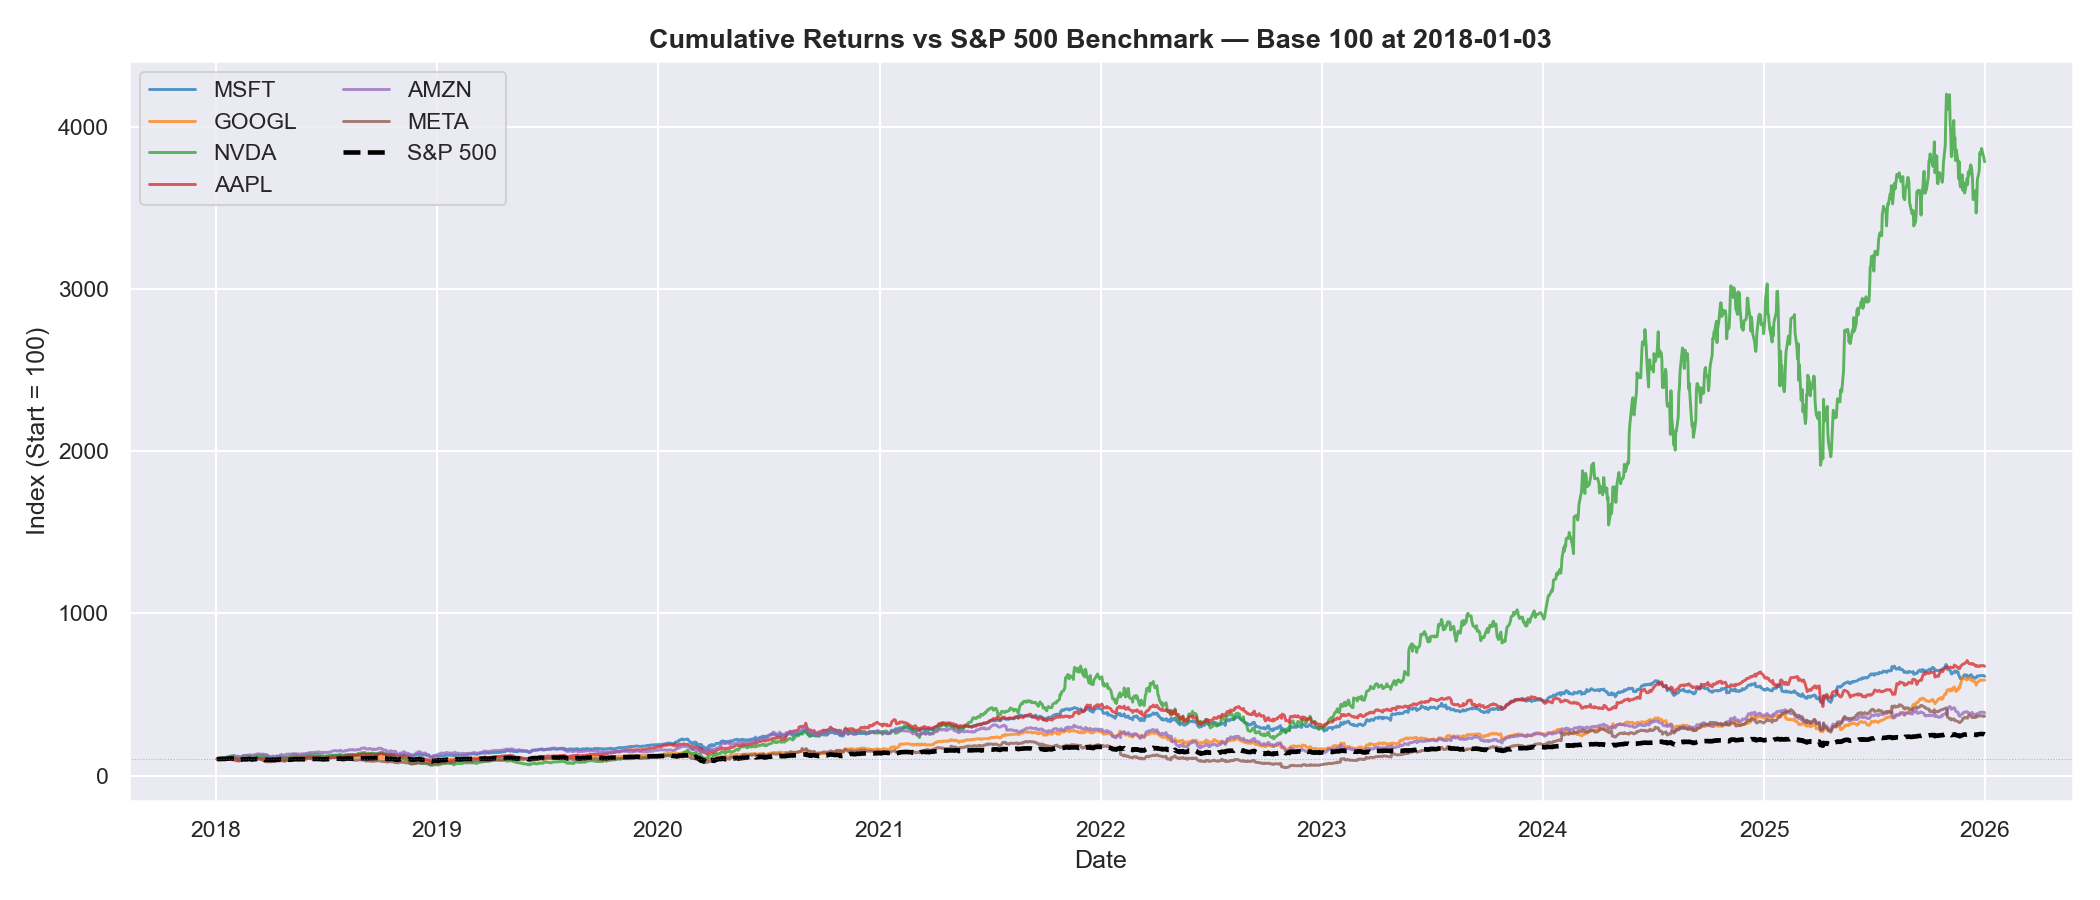
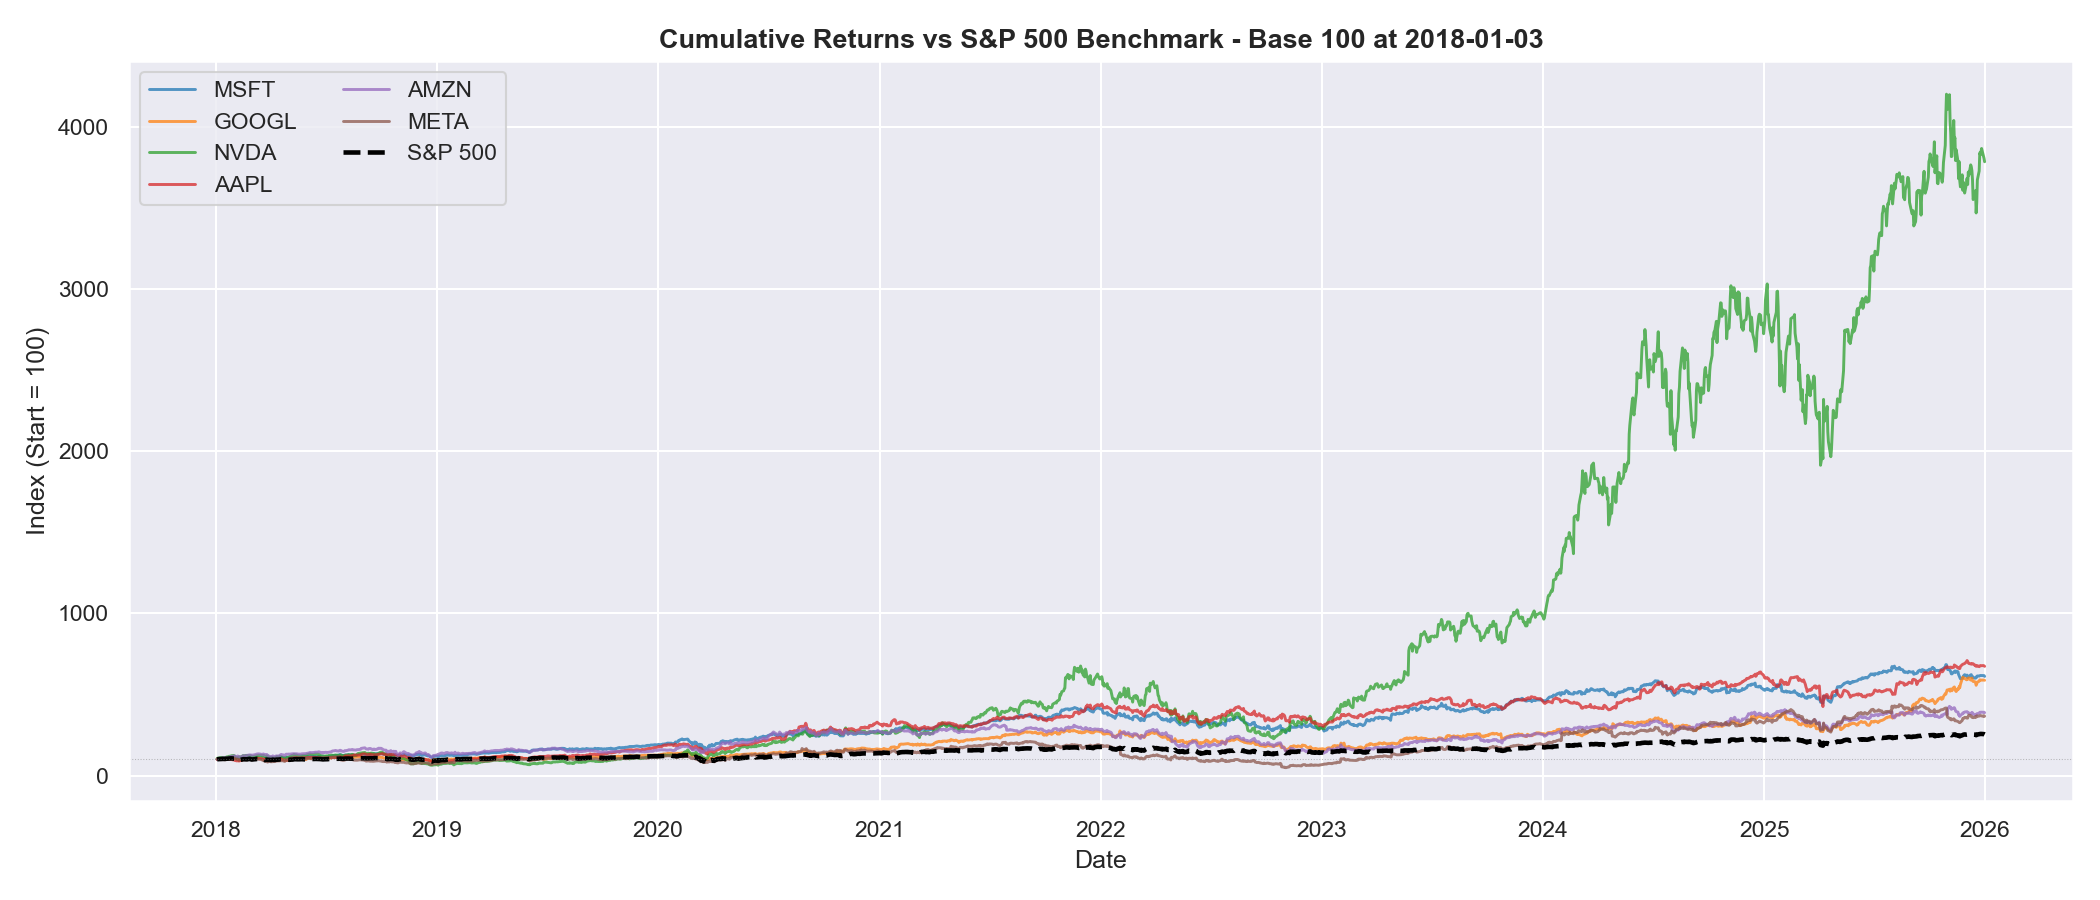
Fix Phase 2 encoding and EDA conclusion; harden CSV upload path
- Strip UTF-8 BOM and four mojibake em dashes from phase2_eda.py
- Compute EDA conclusion figures from live frames instead of hardcoding
- Drop non-finite rows after log transform so bad uploads return 422
- Sort uploaded CSVs by date
- Remove unused imports and locals
- README: test count, chart count, walk-forward years, missing entries

Changed region(s): [[0.3095, 0.0311, 0.7429, 0.0622]]

diff --git a/src/phase2_eda.py b/src/phase2_eda.py
@@ -1,6 +1,6 @@
-"""
+"""
 Phase 2 -- Exploratory Data Analysis
-Loads master_data.csv and produces 8 analyses/charts saved to outputs/.
+Loads master_data.csv and produces 11 charts and 4 tables saved to outputs/.
 """
 
 import sys
@@ -354,7 +354,7 @@ for ticker in ALL_TICKERS:
 ax.plot(sp500_cum.index, sp500_cum.values, label="S&P 500",
         color="black", lw=2.2, ls="--")
 ax.axhline(100, color="grey", lw=0.5, ls=":", alpha=0.5)
-ax.set_title("Cumulative Returns vs S&P 500 Benchmark â€” Base 100 at 2018-01-03",
+ax.set_title("Cumulative Returns vs S&P 500 Benchmark - Base 100 at 2018-01-03",
              fontsize=13, fontweight="bold")
 ax.set_ylabel("Index (Start = 100)")
 ax.set_xlabel("Date")
@@ -369,12 +369,12 @@ print(f"  Saved -> outputs/charts/cumulative_vs_benchmark.png")
 # ---------------------------------------------------------------------------
 # 12 -- Rolling 60-day correlations (top 6 pairs by average correlation)
 # ---------------------------------------------------------------------------
-print("\n[12/14] Rolling 60-day correlation â€” top 6 pairs ...")
+print("\n[12/14] Rolling 60-day correlation - top 6 pairs ...")
 
 top6_pairs = pair_corr_df.head(6)[["Stock A", "Stock B"]].values.tolist()
 
 fig, axes = plt.subplots(2, 3, figsize=(18, 8))
-fig.suptitle("60-Day Rolling Return Correlation â€” Top 6 Pairs (2018-2025)",
+fig.suptitle("60-Day Rolling Return Correlation - Top 6 Pairs (2018-2025)",
              fontsize=13, fontweight="bold")
 
 for ax, (t1, t2) in zip(axes.flat, top6_pairs):
@@ -439,7 +439,7 @@ vix_df.to_csv(REPORTS_DIR / "vix_sensitivity.csv")
 print(vix_df.to_string())
 print(f"  Saved -> outputs/reports/vix_sensitivity.csv")
 
-# VIX sensitivity chart â€” 3 panels
+# VIX sensitivity chart - 3 panels
 fig, (ax_corr, ax_ret, ax_vol) = plt.subplots(1, 3, figsize=(16, 5))
 fig.suptitle(f"VIX Sensitivity Analysis (High VIX = level > {VIX_THRESHOLD})",
              fontsize=13, fontweight="bold")
@@ -497,13 +497,49 @@ print(f"  Saved -> outputs/charts/vix_sensitivity.png")
 # ---------------------------------------------------------------------------
 print("\n[14/14] EDA Conclusion ...")
 
+# --- computed values for conclusion ---
+_amzn_meta_r = float(
+    pair_corr_df.loc[pair_corr_df["Pair"] == "AMZN / META", "Correlation"].iloc[0]
+)
+_msft_googl_r = float(
+    pair_corr_df.loc[pair_corr_df["Pair"] == "MSFT / GOOGL", "Correlation"].iloc[0]
+)
+_lr = stats.linregress(prices["MSFT"], prices["AAPL"])
+_msft_aapl_r = float(_lr.rvalue)
+_msft_aapl_r2 = _msft_aapl_r ** 2
+
+_nvda = prices["NVDA"]
+_nvda_mid23 = _nvda.loc["2023-07-01":].iloc[0]
+_nvda_end = _nvda.iloc[-1]
+_nvda_surge = _nvda_end / _nvda_mid23
+
+_nvda_2021_end = _nvda.loc[:"2021-12-31"].iloc[-1]
+_nvda_2022_end = _nvda.loc[:"2022-12-31"].iloc[-1]
+_nvda_2022_fall_pct = (_nvda_2022_end / _nvda_2021_end - 1) * 100
+
+_meta = prices["META"]
+_meta_2021_end = _meta.loc[:"2021-12-31"].iloc[-1]
+_meta_2022_end = _meta.loc[:"2022-12-31"].iloc[-1]
+_meta_2022_fall_pct = (_meta_2022_end / _meta_2021_end - 1) * 100
+
+_amzn = prices["AMZN"]
+_amzn_2021_end = _amzn.loc[:"2021-12-31"].iloc[-1]
+_amzn_2022_end = _amzn.loc[:"2022-12-31"].iloc[-1]
+_amzn_2022_fall_pct = (_amzn_2022_end / _amzn_2021_end - 1) * 100
+
+print(f"  [conclusion] AMZN/META r={_amzn_meta_r:.4f}  MSFT/GOOGL r={_msft_googl_r:.4f}")
+print(f"  [conclusion] MSFT/AAPL r={_msft_aapl_r:.4f}  R2={_msft_aapl_r2:.4f}")
+print(f"  [conclusion] NVDA surge from mid-2023: {_nvda_surge:.1f}x")
+print(f"  [conclusion] NVDA 2022 fall: {_nvda_2022_fall_pct:.0f}%  "
+      f"META: {_meta_2022_fall_pct:.0f}%  AMZN: {_amzn_2022_fall_pct:.0f}%")
+
 conclusion = (
     "\nEDA CONCLUSION -- PHASE 2 SUMMARY\n"
     "==================================\n\n"
     "Based on eight years (2018-2025) of daily data for six S&P 500 tech stocks:\n\n"
     "RETURN STATISTICS:\n"
     "  - NVDA dominates in both return (0.233%/day) and volatility (48.3% ann.).\n"
-    "    Its AI/GPU-driven 37x price surge from mid-2023 makes it a poor candidate\n"
+    f"    Its AI/GPU-driven {_nvda_surge:.1f}x price surge from mid-2023 makes it a poor candidate\n"
     "    for any stable long-term pair relationship.\n"
     "  - META shows extreme kurtosis (18.12), driven by its Feb-2022 single-day\n"
     "    -26% collapse. Any META-involving pair carries asymmetric spread-gap risk.\n\n"
@@ -522,18 +558,19 @@ conclusion = (
     "    correlation spikes during the 2020 COVID crash and 2022 bear market,\n"
     "    and troughs in 2023-2024 as NVDA decoupled from peers.\n\n"
     "PAIRS MOST LIKELY TO BE COINTEGRATED (EDA view):\n"
-    "  1. AMZN/META -- moderate return correlation (0.57), both driven by\n"
+    f"  1. AMZN/META -- moderate return correlation ({_amzn_meta_r:.2f}), both driven by\n"
     "     consumer/advertiser cycle. Neither has undergone the AI structural break\n"
     "     seen in NVDA. Price scatter shows a reasonable linear trend.\n"
-    "  2. MSFT/AAPL -- highest price-level R^2 (0.966), similar betas, stable\n"
+    f"  2. MSFT/AAPL -- price-level r={_msft_aapl_r:.3f} (R^2={_msft_aapl_r2:.3f}), similar betas, stable\n"
     "     rolling correlation over time.\n"
-    "  3. MSFT/GOOGL -- highest return correlation (0.709), similar business\n"
+    f"  3. MSFT/GOOGL -- highest return correlation ({_msft_googl_r:.3f}), similar business\n"
     "     models (search, cloud, enterprise SaaS).\n\n"
     "CAUTION FLAGS:\n"
     "  - NVDA pairs: expected to fail cointegration due to the AI-driven\n"
     "    structural break from mid-2023.\n"
     "  - 2022 bear market is the critical stress test for all backtests.\n"
-    "    META fell 65%, AMZN 50%, NVDA 55% in that calendar year.\n"
+    f"    META fell {abs(_meta_2022_fall_pct):.0f}%, AMZN {abs(_amzn_2022_fall_pct):.0f}%,"
+    f" NVDA {abs(_nvda_2022_fall_pct):.0f}% in that calendar year.\n"
 )
 
 print(conclusion)

diff --git a/tests/test_app.py b/tests/test_app.py
@@ -161,6 +161,81 @@ class TestApiAnalyseEndpoint:
         assert resp.status_code == 422
         assert "Date" in resp.json()["detail"]
 
+    def test_zero_price_returns_422(self):
+        """A CSV with only a handful of valid rows (after zero-price rows are dropped)
+        should fall below MIN_ROWS and return 422."""
+        # 65 rows total, last 10 have y=0 → only 55 finite rows < MIN_ROWS=60
+        n = 65
+        dates = pd.bdate_range("2018-01-02", periods=n)
+        x = np.cumsum(_RNG.standard_normal(n)) + 100
+        y = np.cumsum(_RNG.standard_normal(n)) + 80
+        y[55:] = 0.0  # 10 rows become non-finite after log
+        df = pd.DataFrame({"Date": dates, "AssetA": x, "AssetB": y}).set_index("Date")
+        resp = client.post(
+            "/api/analyse",
+            files={"file": ("zero.csv", _make_csv(df), "text/csv")},
+            data={"ticker1": "", "ticker2": ""},
+        )
+        assert resp.status_code == 422
+
+    def test_negative_price_returns_422(self):
+        """A CSV with only a handful of valid rows (after negative-price rows are dropped)
+        should fall below MIN_ROWS and return 422."""
+        # 65 rows total, last 10 have y<0 → only 55 finite rows < MIN_ROWS=60
+        n = 65
+        dates = pd.bdate_range("2018-01-02", periods=n)
+        x = np.cumsum(_RNG.standard_normal(n)) + 100
+        y = np.cumsum(_RNG.standard_normal(n)) + 80
+        y[55:] = -5.0
+        df = pd.DataFrame({"Date": dates, "AssetA": x, "AssetB": y}).set_index("Date")
+        resp = client.post(
+            "/api/analyse",
+            files={"file": ("neg.csv", _make_csv(df), "text/csv")},
+            data={"ticker1": "", "ticker2": ""},
+        )
+        assert resp.status_code == 422
+
+    def test_single_zero_price_row_succeeds(self):
+        """A 200-row CSV with one zero price should return 200, not 500.
+        The non-finite-row fix drops the one bad row and continues with 199 rows."""
+        n = 200
+        dates = pd.bdate_range("2018-01-02", periods=n)
+        x = np.cumsum(_RNG.standard_normal(n)) + 100
+        y = 0.8 * x + _RNG.standard_normal(n) * 0.5
+        y[100] = 0.0  # single zero — used to raise unhandled 500
+        df = pd.DataFrame({"Date": dates, "AssetA": x, "AssetB": y}).set_index("Date")
+        resp = client.post(
+            "/api/analyse",
+            files={"file": ("one_zero.csv", _make_csv(df), "text/csv")},
+            data={"ticker1": "", "ticker2": ""},
+        )
+        assert resp.status_code == 200
+
+    def test_reverse_ordered_csv_same_result_as_sorted(self):
+        """A reverse-date CSV (newest first) should produce the same analysis as sorted."""
+        dates = pd.bdate_range("2018-01-02", periods=200)
+        x = np.cumsum(_RNG.standard_normal(200)) + 100
+        y = 0.8 * x + _RNG.standard_normal(200) * 0.5
+        df_fwd = pd.DataFrame({"Date": dates, "AssetA": x, "AssetB": y}).set_index("Date")
+        df_rev = df_fwd[::-1]  # reverse row order
+
+        resp_fwd = client.post(
+            "/api/analyse",
+            files={"file": ("fwd.csv", _make_csv(df_fwd), "text/csv")},
+            data={"ticker1": "", "ticker2": ""},
+        )
+        resp_rev = client.post(
+            "/api/analyse",
+            files={"file": ("rev.csv", _make_csv(df_rev), "text/csv")},
+            data={"ticker1": "", "ticker2": ""},
+        )
+        assert resp_fwd.status_code == 200
+        assert resp_rev.status_code == 200
+        data_fwd = resp_fwd.json()
+        data_rev = resp_rev.json()
+        assert data_fwd["is_cointegrated"] == data_rev["is_cointegrated"]
+        assert abs(data_fwd["engle_granger"]["eg_pval"] - data_rev["engle_granger"]["eg_pval"]) < 1e-8
+
 
 class TestCachedTickerPairs:
     """Integration tests using cached data from data/raw/."""

diff --git a/src/phase5_ml_spread.py b/src/phase5_ml_spread.py
@@ -77,7 +77,6 @@ matplotlib.use("Agg")
 import matplotlib.pyplot as plt
 import matplotlib.gridspec as gridspec
 import statsmodels.api as sm
-import yfinance as yf
 from pathlib import Path
 
 os.environ["TF_CPP_MIN_LOG_LEVEL"]    = "3"
@@ -90,7 +89,7 @@ from tensorflow import keras
 from tensorflow.keras import layers, callbacks
 
 sys.path.insert(0, str(Path(__file__).resolve().parent))
-from utils import DATA_RAW, CHARTS_DIR, REPORTS_DIR, MODELS_DIR, load_or_download_2026
+from utils import CHARTS_DIR, REPORTS_DIR, MODELS_DIR, load_or_download_2026
 from phase3_strategy import (
     load_prices, build_open_spread, backtest, compute_metrics,
     extract_trade_log,
@@ -942,7 +941,6 @@ def run_phase5_final_2026(dep, indep, tests_passed, refresh=False):
     close_df, open_df, log_close, log_open = load_prices(dep, indep)
     # Restrict to pre-2026 training data for all fitting
     log_close_pre26 = log_close.loc[log_close.index <= FINAL_VAL_END]
-    log_open_pre26  = log_open.loc[log_open.index <= FINAL_VAL_END]
 
     hr_f, ic_f, r2_f = fit_ols(log_close_pre26, dep, indep,
                                  end_date=FINAL_TRAIN_END)
@@ -1058,7 +1056,6 @@ def run_phase5_final_2026(dep, indep, tests_passed, refresh=False):
     mask_te  = idx_te_all >= pd.Timestamp(P4_TEST_START)
     X_te_f   = X_te_all[mask_te]
     y_te_f   = y_te_all[mask_te]
-    idx_te_f = idx_te_all[mask_te]
     y_pred_f     = model_f.predict(X_te_f, verbose=0)
     eval_f       = evaluate_predictions(y_te_f, y_pred_f)
     persist_f    = persistence_baseline(X_te_f, y_te_f)

diff --git a/app/main.py b/app/main.py
@@ -127,6 +127,7 @@ def _parse_uploaded_csv(contents: bytes) -> tuple[pd.DataFrame, str, str]:
     except Exception:
         raise ValueError("Could not parse 'Date' column as dates.")
     raw = raw.set_index("Date")
+    raw = raw.sort_index()
     price_cols = raw.select_dtypes(include="number").columns.tolist()
     if len(price_cols) < 2:
         raise ValueError(
@@ -196,6 +197,11 @@ def run_analysis(
         )
 
     log_df = np.log(close_df)
+    log_df = log_df[np.isfinite(log_df).all(axis=1)]
+    if len(log_df) < MIN_ROWS:
+        raise ValueError(
+            f"Need at least {MIN_ROWS} finite-price rows after alignment; got {len(log_df)}."
+        )
     log_a, log_b = log_df[ticker1], log_df[ticker2]
 
     # pick_direction: choose the OLS direction with more stationary residuals.

diff --git a/src/evaluate_gate.py b/src/evaluate_gate.py
@@ -45,7 +45,7 @@ from sklearn.metrics import (
 )
 
 sys.path.insert(0, str(Path(__file__).resolve().parent))
-from utils import REPORTS_DIR, CHARTS_DIR, MODELS_DIR
+from utils import REPORTS_DIR, CHARTS_DIR
 from predict import load_artefacts, build_features, load_log_close
 
 # Must match phase5_ml_spread.py / predict.py
@@ -107,8 +107,6 @@ def build_eval_arrays(dep, indep, model, ols, scaler):
 
     # Bar i: sequence = feat_df[i-SEQ_LEN : i], current bar = feat_df[i-1]
     eval_bars = list(range(SEQ_LEN, n - HORIZON))
-    N = len(eval_bars)
-
     X = np.stack([
         feat_df.iloc[i - SEQ_LEN : i].values.astype("float32")
         for i in eval_bars

diff --git a/tests/test_backtest.py b/tests/test_backtest.py
@@ -18,7 +18,7 @@ import pytest
 sys.path.insert(0, str(Path(__file__).resolve().parent.parent / "src"))
 
 from phase3_strategy import (backtest, compute_metrics, build_spread_zscore,
-                              block_bootstrap_sharpe, extract_trade_log)
+                              extract_trade_log)
 
 
 # ---------------------------------------------------------------------------

diff --git a/src/predict.py b/src/predict.py
@@ -23,7 +23,7 @@ import pandas as pd
 import joblib
 
 sys.path.insert(0, str(Path(__file__).resolve().parent))
-from utils import DATA_RAW, REPORTS_DIR, MODELS_DIR, load_or_download_2026
+from utils import DATA_RAW, REPORTS_DIR, MODELS_DIR
 
 # Must match phase5_ml_spread.py
 SEQ_LEN         = 20

diff --git a/tests/test_phase5.py b/tests/test_phase5.py
@@ -16,7 +16,6 @@ import sys
 from pathlib import Path
 import numpy as np
 import pandas as pd
-import pytest
 
 sys.path.insert(0, str(Path(__file__).resolve().parent.parent / "src"))
 

diff --git a/README.md b/README.md
@@ -30,6 +30,7 @@ The work is delivered as **Phases 1–6** per the phase breakdown: Phase 1 (data
 │   ├── phase4_unseen.py        # mean-reversion test on genuinely unseen 2026 data
 │   ├── phase5_ml_spread.py     # LSTM spread prediction + Step 8 2026 comparison
 │   ├── evaluate_gate.py        # gate classification metrics + feature importance
+│   ├── predict.py              # load saved artefacts and score new observations
 │   └── utils.py                # shared constants & paths
 ├── app/
 │   ├── main.py                 # FastAPI application
@@ -38,7 +39,7 @@ The work is delivered as **Phases 1–6** per the phase breakdown: Phase 1 (data
 ├── outputs/
 │   ├── charts/                 # saved figures (named by pair)
 │   └── reports/                # exported tables / summary CSVs
-├── tests/                      # pytest suite (66 tests)
+├── tests/                      # pytest suite (92 tests)
 ├── requirements.txt
 ├── requirements_exact.txt      # pinned versions for exact reproduction
 └── README.md
@@ -64,7 +65,7 @@ Run scripts in order — each phase depends on outputs from the previous:
 # Phase 1 — download and build master_data.csv (requires internet)
 python src/phase1_data.py
 
-# Phase 2 — exploratory analysis: 15 charts + tables
+# Phase 2 — exploratory analysis: 11 charts and 4 tables
 python src/phase2_eda.py
 
 # Phase 3a — cointegration screening → selected_pairs.csv
@@ -111,7 +112,7 @@ Reads saved artefacts from `models/` and cached raw prices from `data/raw/`. Req
 python -m pytest tests/ -v
 ```
 
-88 tests covering the backtesting engine (Phase 3b), Phase 5 utilities, predict utilities, convergence gate evaluation, and the FastAPI app.
+92 tests covering the backtesting engine (Phase 3b), Phase 5 utilities, predict utilities, convergence gate evaluation, and the FastAPI app.
 
 ## FastAPI deployment
 
@@ -136,7 +137,7 @@ Then open `http://127.0.0.1:8000` in your browser.
 
 **Input (either option):**
 - **Cached data** — choose two tickers from the dropdown (AAPL, AMZN, GOOGL, META, MSFT, NVDA).
-- **CSV upload** — a file with a `Date` column and two numeric price columns (minimum 60 rows).
+- **CSV upload** — a file with a `Date` column and two numeric price columns (minimum 60 rows). CSV backtests use close-to-close prices; cached tickers execute signals at the next open price.
 
 **Output (HTML results page):**
 - Cointegration table — Engle-Granger (`coint()` p-value) and Johansen trace / max-eigenvalue statistics with pass/fail flags at 5% and 10%.
@@ -183,9 +184,9 @@ AMZN/META ranks first by both the EG p-value (rank 1) and the Johansen ratio —
 | Pair | Period | Sharpe | Sharpe 95% CI | Total P&L | Max drawdown | WF profitable years |
 |------|--------|--------|---------------|-----------|--------------|---------------------|
 | AMZN/META | Train 2018–2021 | 0.56 | (−0.25, 1.37) | — | — | — |
-| AMZN/META | Test 2022–2025 | 0.12 | (−0.74, 1.01) | +0.138 | −0.588 | 4/8 |
+| AMZN/META | Test 2022–2025 | 0.12 | (−0.74, 1.01) | +0.138 | −0.588 | 4/7 |
 | MSFT/AAPL | Train 2018–2021 | 0.25 | (−0.71, 1.08) | — | — | — |
-| MSFT/AAPL | Test 2022–2025 | −0.23 | (−1.16, 0.71) | −0.133 | −0.453 | 4/8 |
+| MSFT/AAPL | Test 2022–2025 | −0.23 | (−1.16, 0.71) | −0.133 | −0.453 | 4/7 |
 
 AMZN/META shows a positive out-of-sample Sharpe but the confidence interval spans zero. MSFT/AAPL is negative on the test set.
 
@@ -281,6 +282,7 @@ Current z-score (`z_std`) dominates — shuffling it roughly doubles the RMSE. L
 | `outputs/reports/phase4_cross_pair_summary.csv` | Phase 4 signal summary and mean-reversion verdict |
 | `outputs/reports/phase5_cross_pair_final_summary.csv` | Phase 5 definitive 2026 LSTM vs Phase 4 baseline |
 | `outputs/reports/gate_metrics.csv` | LSTM gate classification metrics vs naive baseline (all pairs / periods) |
+| `outputs/reports/nvda_subperiod_results.csv` | Cointegration screen for the five NVDA pairs restricted to 2018-2022 (structural-break check) |
 | `outputs/reports/feature_importance_{pair}.csv` | Permutation feature importance per pair |
 | `outputs/charts/confusion_matrix_{pair}_{period}.png` | Confusion matrix per pair and evaluation period |
 | `outputs/charts/feature_importance_{pair}.png` | Feature importance bar chart per pair |
